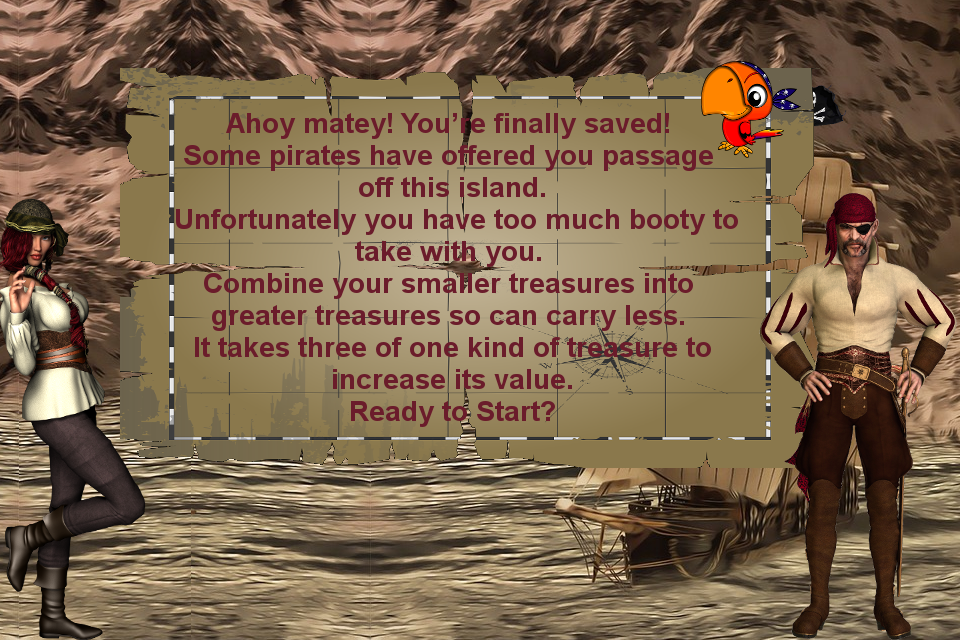
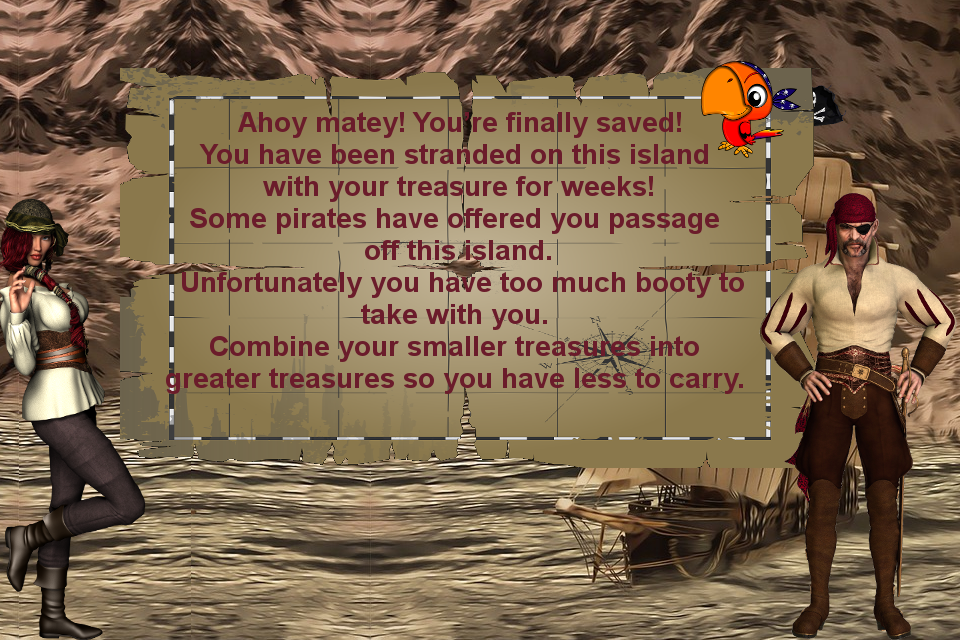
Instruction Update Commit
Updated the instructions to be a lttle better. Aded a second screen with the blue pirates.

Changed region(s): [[0.1562, 0.1562, 0.7812, 0.6562]]

diff --git a/js/states/Game.js b/js/states/Game.js
@@ -14,6 +14,7 @@ Merge.GameState = {
         this.board = this.createItems(this.board, false);
         this.myItems = this.createItems(this.myItems, true);
         this.createBoard(this.board);
+        this.createInventory();
         this.displayInventory(this.myItems);
         console.log(this.myItems);
         this.add.button(750, 400, 'onyx', function()
@@ -65,11 +66,18 @@ Merge.GameState = {
             }
         }
     },
+    createInventory()
+    {
+        for(let i=0, len=this.allData.Rounds[0].InventoryMax; i<len; i++)
+        {
+            this.add.sprite(780, 80 * i, 'inventoryItem');
+        }
+    },
     displayInventory(items)
     {
         for(let i=0, len=items.length; i<len; i++)
         {
-            items[i].setSprite(750, 35 * i, items[i].texture, true);
+            items[i].setSprite(800, (80 * i) + 30, items[i].texture, true);
         }
     },
     addToInventory(newItem, made)
@@ -162,7 +170,7 @@ Merge.GameState = {
                         let lastTween = this.add.tween(this.tempSprite).to({x: 750, y: 0}, 2000, "Linear", true);
                         lastTween.onComplete.add(function()
                         {
-                            this.goToEnd();
+                            this.goToEnd();//Add check for next level -> add item to inventory
                         }, this);
                     }
                 }, this);

diff --git a/js/states/Preload.js b/js/states/Preload.js
@@ -10,8 +10,10 @@ Merge.PreloadState = {
         this.load.image('background', 'assets/images/background_merge.png');
         this.load.image('storyBackground', 'assets/images/main.png');
         this.load.image('instructions', 'assets/images/instructions.png');
+        this.load.image('instructions2', 'assets/images/instructions2.png');
         this.load.image('endBackground', 'assets/images/end.png');
         this.load.image('start', 'assets/images/start.png');
+        this.load.image('inventoryItem', 'assets/images/inventoryItem.png');
         
         this.load.image('coinG', 'assets/images/coinG.png');
         this.load.image('coinS', 'assets/images/coinS.png');       

diff --git a/js/states/Story.js b/js/states/Story.js
@@ -10,6 +10,10 @@ Merge.StoryState = {
             {
                 this.background.loadTexture('instructions');
             }
+            else if(this.background.key === 'instructions')
+            {
+                this.background.loadTexture('instructions2');
+            }
             else
             {
                 this.ocean = this.add.sprite(0, 640, 'background');
